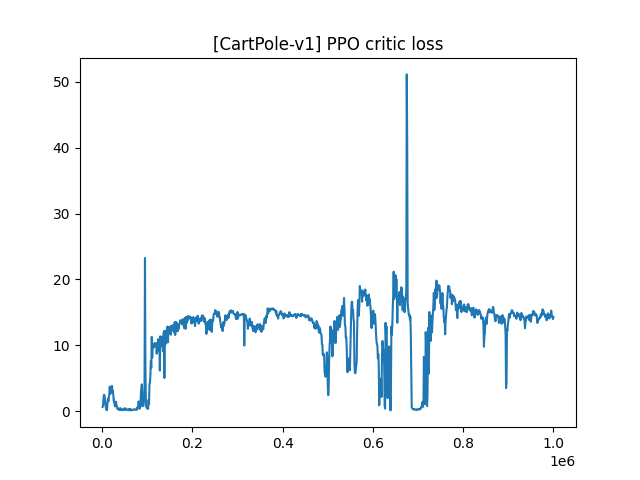
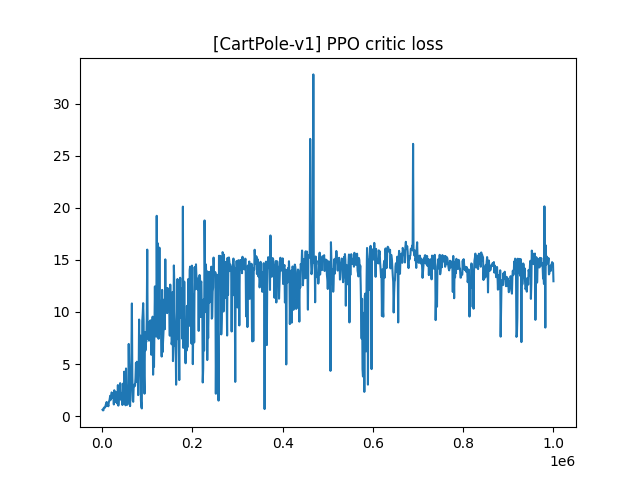
add gae lambda estimator

diff --git a/algos/discrete_ppo.py b/algos/discrete_ppo.py
@@ -20,6 +20,7 @@ class Hyperparams:
     batch_count: int = flax.struct.field(pytree_node=False)
     rollout_len: int = flax.struct.field(pytree_node=False)
     discount_rate: float = flax.struct.field(pytree_node=False)
+    advantage_rate: float = flax.struct.field(pytree_node=False)
     num_minibatches: int = flax.struct.field(pytree_node=False)
     update_epochs: int = flax.struct.field(pytree_node=False)
     actor_learning_rate: float = flax.struct.field(pytree_node=False)
@@ -38,6 +39,7 @@ ENV_CONFIG = {
             batch_count=50,
             rollout_len=1000,
             discount_rate=0.99,
+            advantage_rate=0.95,
             num_minibatches=4,
             update_epochs=6,
             actor_learning_rate=0.002,
@@ -90,20 +92,21 @@ def run_rollout(env, env_params, length, actor_state, rng_key):
     a, n, last_observation, r = rollout_state
     return (transitions, last_observation)
 
-def calc_values(critic_state, transitions, last_observation, discount_rate):
+def calc_values(critic_state, transitions, last_observation, discount_rate, advantage_rate):
     """Calculates the advantage estimate at each time step."""
     values = jax.vmap(critic_state.apply_fn, in_axes=(None, 0))(critic_state.params, transitions.observation)
     last_value = critic_state.apply_fn(critic_state.params, last_observation)
 
-    def calc_advantage(next_value, value_info):
+    def calc_advantage(next_values, value_info):
+        next_value, next_advantage = next_values
         value, reward, done = value_info
         target = reward + discount_rate * next_value * (1 - done)
-        advantage = target - value
-        return (value, (advantage, target))
+        advantage = (target - value) + advantage_rate * discount_rate * next_advantage * (1 - done)
+        return ((value, advantage), (advantage, target))
 
     v, result = jax.lax.scan(
         calc_advantage,
-        init=last_value,
+        init=(last_value, jnp.float32(0)),
         xs=(values, transitions.reward, transitions.done),
         reverse=True,
     )
@@ -165,7 +168,13 @@ def run_update(env, env_params, actor_state, critic_state, rng_key, hyperparams)
     # Collect transitions and calculate advantages and targets
     rng_key, rollout_key, shuffle_key = jax.random.split(rng_key, 3)
     transitions, last_observation = run_rollout(env, env_params, hyperparams.rollout_len, actor_state, rollout_key)
-    advantages, targets = calc_values(critic_state, transitions, last_observation, hyperparams.discount_rate)
+    advantages, targets = calc_values(
+        critic_state,
+        transitions,
+        last_observation,
+        hyperparams.discount_rate,
+        hyperparams.advantage_rate,
+    )
 
     # Calculate rewards before batching
     total_rewards = calc_episode_rewards(transitions)
